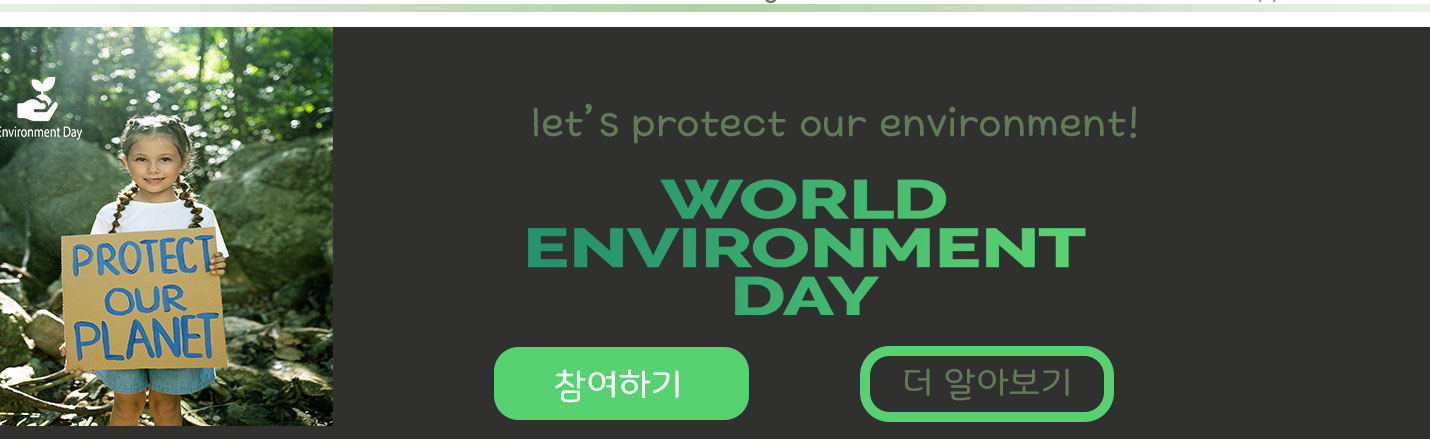
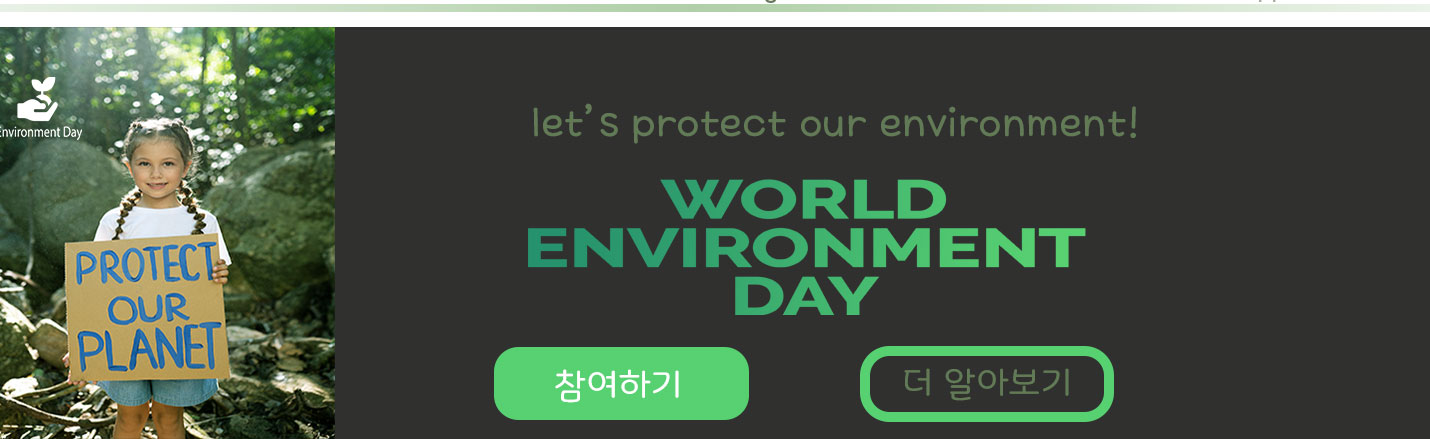
그린슈머

Changed region(s): [[0.0, 0.0592, 0.2462, 1.0]]

diff --git a/index.html b/index.html
@@ -1,76 +1,136 @@
 <html>
 <head>
-<title>그린슈머 플랫폼</title>
+<title>그린슈머</title>
 <meta http-equiv="Content-Type" content="text/html; charset=utf-8">
 </head>
 <body bgcolor="#FFFFFF" leftmargin="0" topmargin="0" marginwidth="0" marginheight="0">
-<!-- Save for Web Slices (그린슈머 플랫폼.psd) -->
-<table id="__01" width="1440" height="2801" border="0" cellpadding="0" cellspacing="0">
+<!-- Save for Web Slices (그린슈머.psd) -->
+<table id="__01" width="1441" height="2801" border="0" cellpadding="0" cellspacing="0">
 	<tr>
-		<td colspan="12">
-			<img src="images/&#xadf8;&#xb9b0;&#xc288;&#xba38;-&#xb85c;&#xace0;,-&#xc635;&#xc158;-&#xc544;&#xc774;&#xcf58;.jpg" width="1440" height="259" alt=""></td>
+		<td colspan="6" rowspan="3">
+			<img src="images/&#xadf8;&#xb9b0;&#xc288;&#xba38;-&#xb85c;&#xace0;,-&#xc635;&#xc158;-&#xc544;&#xc774;&#xcf58;.jpg" width="456" height="259" alt=""></td>
+		<td colspan="3" rowspan="3">
+			<a href="https://501608.github.io/greensumer/">
+				<img src="images/&#xc2dc;&#xc791;&#xd398;&#xc774;&#xc9c0;.jpg" width="529" height="259" border="0" alt=""></a></td>
+		<td colspan="3" rowspan="3">
+			<img src="images/&#xadf8;&#xb9b0;&#xc288;&#xba38;-&#xb85c;&#xace0;,-&#xc635;&#xc158;-&#xc544;&#xc774;&#xcf58;-04.jpg" width="110" height="259" alt=""></td>
+		<td>
+			<a href="https://501608.github.io/greensumer/">
+				<img src="images/home.jpg" width="72" height="72" border="0" alt=""></a></td>
+		<td rowspan="3">
+			<img src="images/&#xadf8;&#xb9b0;&#xc288;&#xba38;-&#xb85c;&#xace0;,-&#xc635;&#xc158;-&#xc544;&#xc774;&#xcf58;-06.jpg" width="19" height="259" alt=""></td>
+		<td colspan="2" rowspan="2">
+			<img src="images/index_06.jpg" width="72" height="74" alt=""></td>
+		<td rowspan="3">
+			<img src="images/&#xadf8;&#xb9b0;&#xc288;&#xba38;-&#xb85c;&#xace0;,-&#xc635;&#xc158;-&#xc544;&#xc774;&#xcf58;-08.jpg" width="25" height="259" alt=""></td>
+		<td>
+			<img src="images/index_08.jpg" width="66" height="72" alt=""></td>
+		<td rowspan="3">
+			<img src="images/&#xadf8;&#xb9b0;&#xc288;&#xba38;-&#xb85c;&#xace0;,-&#xc635;&#xc158;-&#xc544;&#xc774;&#xcf58;-10.jpg" width="20" height="259" alt=""></td>
+		<td>
+			<img src="images/index_10.jpg" width="68" height="72" alt=""></td>
+		<td rowspan="3">
+			<img src="images/&#xadf8;&#xb9b0;&#xc288;&#xba38;-&#xb85c;&#xace0;,-&#xc635;&#xc158;-&#xc544;&#xc774;&#xcf58;-12.jpg" width="3" height="259" alt=""></td>
+		<td>
+			<img src="images/&#xc2a4;&#xd398;&#xc774;&#xc11c;.gif" width="1" height="72" alt=""></td>
+	</tr>
+	<tr>
+		<td rowspan="2">
+			<img src="images/&#xadf8;&#xb9b0;&#xc288;&#xba38;-&#xb85c;&#xace0;,-&#xc635;&#xc158;-&#xc544;&#xc774;&#xcf58;-13.jpg" width="72" height="187" alt=""></td>
+		<td rowspan="2">
+			<img src="images/&#xadf8;&#xb9b0;&#xc288;&#xba38;-&#xb85c;&#xace0;,-&#xc635;&#xc158;-&#xc544;&#xc774;&#xcf58;-14.jpg" width="66" height="187" alt=""></td>
+		<td rowspan="2">
+			<img src="images/&#xadf8;&#xb9b0;&#xc288;&#xba38;-&#xb85c;&#xace0;,-&#xc635;&#xc158;-&#xc544;&#xc774;&#xcf58;-15.jpg" width="68" height="187" alt=""></td>
+		<td>
+			<img src="images/&#xc2a4;&#xd398;&#xc774;&#xc11c;.gif" width="1" height="2" alt=""></td>
+	</tr>
+	<tr>
+		<td colspan="2">
+			<img src="images/&#xadf8;&#xb9b0;&#xc288;&#xba38;-&#xb85c;&#xace0;,-&#xc635;&#xc158;-&#xc544;&#xc774;&#xcf58;-16.jpg" width="72" height="185" alt=""></td>
+		<td>
+			<img src="images/&#xc2a4;&#xd398;&#xc774;&#xc11c;.gif" width="1" height="185" alt=""></td>
 	</tr>
 	<tr>
 		<td rowspan="4">
-			<img src="images/index4_02.gif" width="1" height="493" alt=""></td>
+			<img src="images/index_16.jpg" width="1" height="493" alt=""></td>
 		<td colspan="2" rowspan="2">
 			<img src="images/&#xba54;&#xb274;.jpg" width="90" height="54" alt=""></td>
 		<td rowspan="2">
-			<img src="images/food.jpg" width="163" height="54" alt=""></td>
+			<a href="https://jk10082.github.io/food/">
+				<img src="images/food.jpg" width="163" height="54" border="0" alt=""></a></td>
 		<td>
-			<img src="images/index4_05.gif" width="182" height="3" alt=""></td>
-		<td rowspan="2">
+			<img src="images/index_19.jpg" width="182" height="3" alt=""></td>
+		<td colspan="2" rowspan="2">
 			<img src="images/refill-station.jpg" width="203" height="54" alt=""></td>
 		<td>
-			<img src="images/index4_07.gif" width="182" height="3" alt=""></td>
-		<td rowspan="2">
+			<img src="images/index_21.jpg" width="182" height="3" alt=""></td>
+		<td colspan="2" rowspan="2">
 			<img src="images/community.jpg" width="183" height="54" alt=""></td>
 		<td rowspan="2">
-			<img src="images/index4_09.gif" width="2" height="54" alt=""></td>
-		<td rowspan="2">
+			<img src="images/index_23.jpg" width="2" height="54" alt=""></td>
+		<td colspan="4" rowspan="2">
 			<img src="images/mypage.jpg" width="181" height="54" alt=""></td>
-		<td rowspan="2">
+		<td colspan="5" rowspan="2">
 			<img src="images/support.jpg" width="250" height="54" alt=""></td>
 		<td rowspan="2">
-			<img src="images/index4_12.gif" width="3" height="54" alt=""></td>
+			<img src="images/index_26.jpg" width="3" height="54" alt=""></td>
+		<td>
+			<img src="images/&#xc2a4;&#xd398;&#xc774;&#xc11c;.gif" width="1" height="3" alt=""></td>
 	</tr>
 	<tr>
 		<td>
 			<img src="images/product.jpg" width="182" height="51" alt=""></td>
 		<td>
-			<img src="images/challenge.jpg" width="182" height="51" alt=""></td>
+			<a href="https://parkssas.github.io/greensumer/">
+				<img src="images/challenge.jpg" width="182" height="51" border="0" alt=""></a></td>
+		<td>
+			<img src="images/&#xc2a4;&#xd398;&#xc774;&#xc11c;.gif" width="1" height="51" alt=""></td>
 	</tr>
 	<tr>
 		<td>
-			<img src="images/&#xba54;&#xb274;-16.jpg" width="9" height="4" alt=""></td>
-		<td colspan="10" rowspan="2">
+			<img src="images/&#xba54;&#xb274;-30.jpg" width="9" height="4" alt=""></td>
+		<td colspan="19" rowspan="2">
 			<img src="images/banner.jpg" width="1430" height="439" alt=""></td>
+		<td>
+			<img src="images/&#xc2a4;&#xd398;&#xc774;&#xc11c;.gif" width="1" height="4" alt=""></td>
 	</tr>
 	<tr>
 		<td>
-			<img src="images/index4_17.gif" width="9" height="435" alt=""></td>
+			<img src="images/index_31.jpg" width="9" height="435" alt=""></td>
+		<td>
+			<img src="images/&#xc2a4;&#xd398;&#xc774;&#xc11c;.gif" width="1" height="435" alt=""></td>
 	</tr>
 	<tr>
-		<td colspan="12">
+		<td colspan="21">
 			<img src="images/&#xcc4c;&#xb9b0;&#xc9c0;-&#xc18c;&#xac1c;.jpg" width="1440" height="470" alt=""></td>
+		<td>
+			<img src="images/&#xc2a4;&#xd398;&#xc774;&#xc11c;.gif" width="1" height="470" alt=""></td>
 	</tr>
 	<tr>
-		<td colspan="11">
+		<td colspan="20">
 			<img src="images/&#xcc4c;&#xb9b0;&#xc9c0;-&#xc77c;&#xc815;.jpg" width="1437" height="564" alt=""></td>
 		<td rowspan="3">
-			<img src="images/index4_20.gif" width="3" height="1128" alt=""></td>
+			<img src="images/index_34.jpg" width="3" height="1128" alt=""></td>
+		<td>
+			<img src="images/&#xc2a4;&#xd398;&#xc774;&#xc11c;.gif" width="1" height="564" alt=""></td>
 	</tr>
 	<tr>
-		<td colspan="11">
+		<td colspan="20">
 			<img src="images/&#xcc4c;&#xb9b0;&#xc9c0;-&#xc778;&#xc99d;.jpg" width="1437" height="563" alt=""></td>
+		<td>
+			<img src="images/&#xc2a4;&#xd398;&#xc774;&#xc11c;.gif" width="1" height="563" alt=""></td>
 	</tr>
 	<tr>
-		<td colspan="11">
-			<img src="images/index4_22.gif" width="1437" height="1" alt=""></td>
+		<td colspan="20">
+			<img src="images/index_36.jpg" width="1437" height="1" alt=""></td>
+		<td>
+			<img src="images/&#xc2a4;&#xd398;&#xc774;&#xc11c;.gif" width="1" height="1" alt=""></td>
 	</tr>
 	<tr>
-		<td colspan="12">
+		<td colspan="21">
 			<img src="images/footer.jpg" width="1440" height="450" alt=""></td>
+		<td>
+			<img src="images/&#xc2a4;&#xd398;&#xc774;&#xc11c;.gif" width="1" height="450" alt=""></td>
 	</tr>
 	<tr>
 		<td>
@@ -84,19 +144,38 @@
 		<td>
 			<img src="images/&#xc2a4;&#xd398;&#xc774;&#xc11c;.gif" width="182" height="1" alt=""></td>
 		<td>
-			<img src="images/&#xc2a4;&#xd398;&#xc774;&#xc11c;.gif" width="203" height="1" alt=""></td>
-		<td>
-			<img src="images/&#xc2a4;&#xd398;&#xc774;&#xc11c;.gif" width="182" height="1" alt=""></td>
+			<img src="images/&#xc2a4;&#xd398;&#xc774;&#xc11c;.gif" width="20" height="1" alt=""></td>
 		<td>
 			<img src="images/&#xc2a4;&#xd398;&#xc774;&#xc11c;.gif" width="183" height="1" alt=""></td>
 		<td>
+			<img src="images/&#xc2a4;&#xd398;&#xc774;&#xc11c;.gif" width="182" height="1" alt=""></td>
+		<td>
+			<img src="images/&#xc2a4;&#xd398;&#xc774;&#xc11c;.gif" width="164" height="1" alt=""></td>
+		<td>
+			<img src="images/&#xc2a4;&#xd398;&#xc774;&#xc11c;.gif" width="19" height="1" alt=""></td>
+		<td>
 			<img src="images/&#xc2a4;&#xd398;&#xc774;&#xc11c;.gif" width="2" height="1" alt=""></td>
 		<td>
-			<img src="images/&#xc2a4;&#xd398;&#xc774;&#xc11c;.gif" width="181" height="1" alt=""></td>
+			<img src="images/&#xc2a4;&#xd398;&#xc774;&#xc11c;.gif" width="89" height="1" alt=""></td>
 		<td>
-			<img src="images/&#xc2a4;&#xd398;&#xc774;&#xc11c;.gif" width="250" height="1" alt=""></td>
+			<img src="images/&#xc2a4;&#xd398;&#xc774;&#xc11c;.gif" width="72" height="1" alt=""></td>
+		<td>
+			<img src="images/&#xc2a4;&#xd398;&#xc774;&#xc11c;.gif" width="19" height="1" alt=""></td>
+		<td>
+			<img src="images/&#xc2a4;&#xd398;&#xc774;&#xc11c;.gif" width="1" height="1" alt=""></td>
+		<td>
+			<img src="images/&#xc2a4;&#xd398;&#xc774;&#xc11c;.gif" width="71" height="1" alt=""></td>
+		<td>
+			<img src="images/&#xc2a4;&#xd398;&#xc774;&#xc11c;.gif" width="25" height="1" alt=""></td>
+		<td>
+			<img src="images/&#xc2a4;&#xd398;&#xc774;&#xc11c;.gif" width="66" height="1" alt=""></td>
+		<td>
+			<img src="images/&#xc2a4;&#xd398;&#xc774;&#xc11c;.gif" width="20" height="1" alt=""></td>
+		<td>
+			<img src="images/&#xc2a4;&#xd398;&#xc774;&#xc11c;.gif" width="68" height="1" alt=""></td>
 		<td>
 			<img src="images/&#xc2a4;&#xd398;&#xc774;&#xc11c;.gif" width="3" height="1" alt=""></td>
+		<td></td>
 	</tr>
 </table>
 <!-- End Save for Web Slices -->
